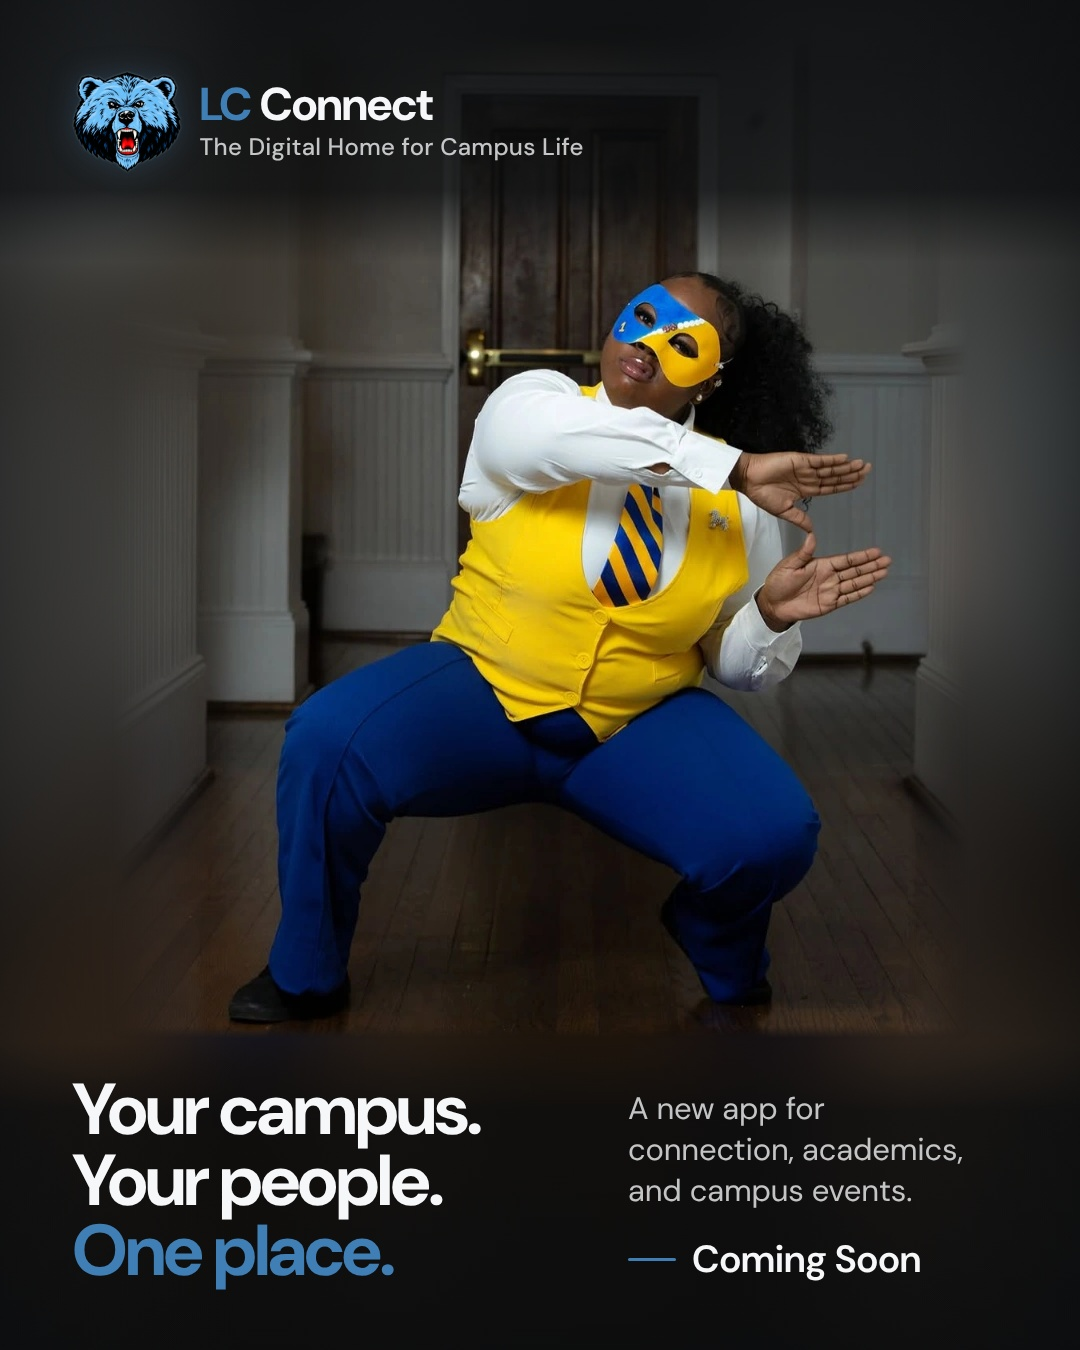
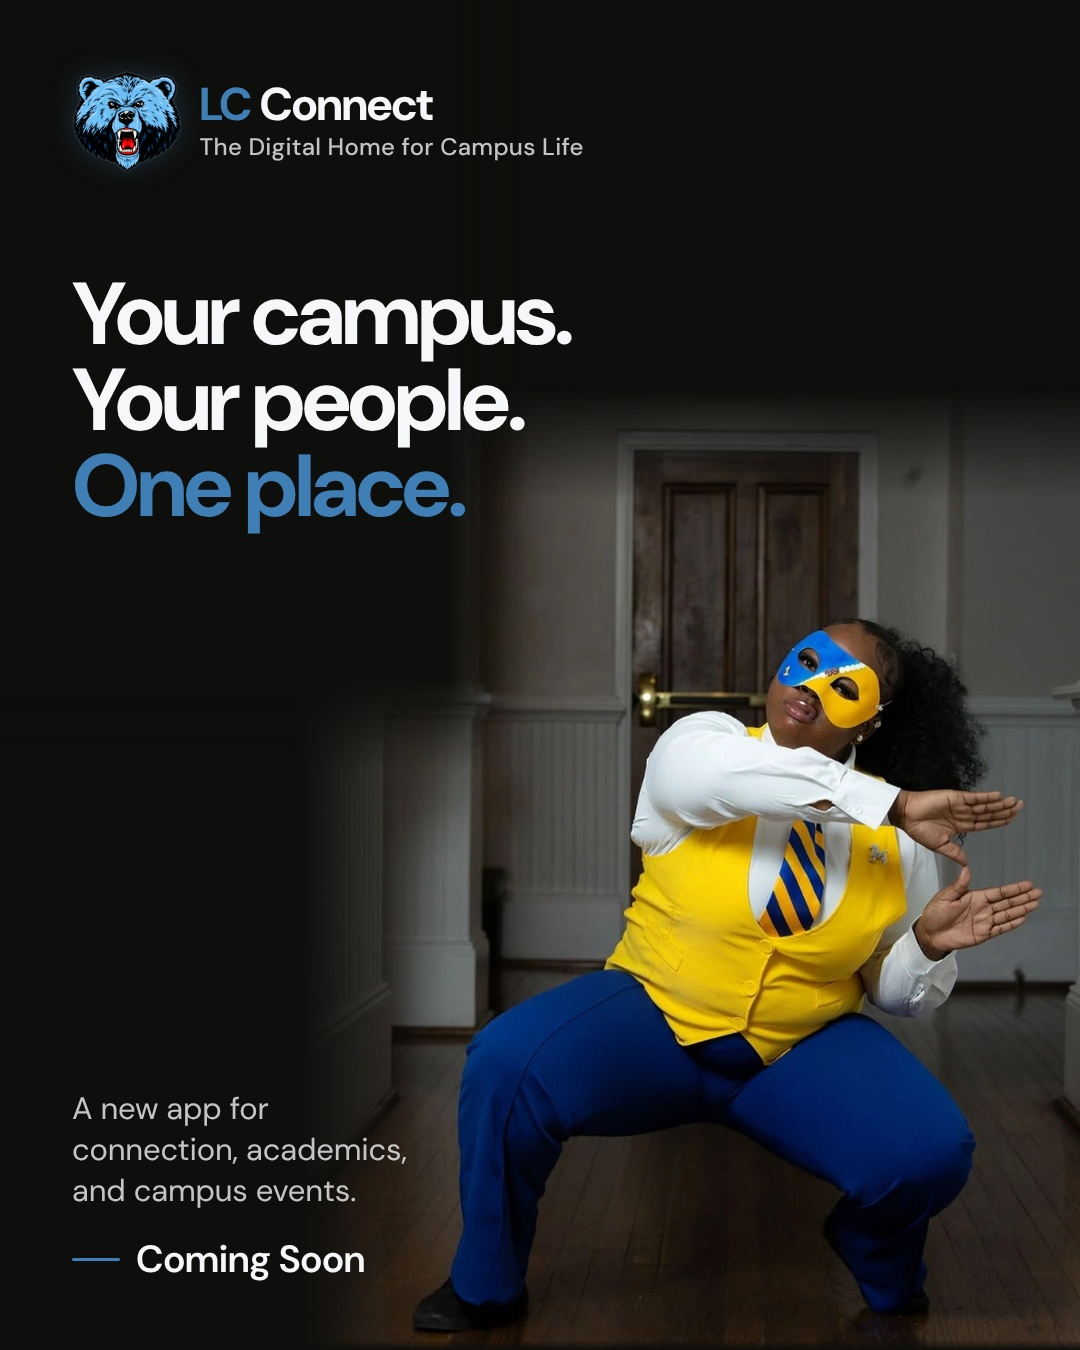
student-12: switch to the cleaner side-column layout (as student-06)
Claude-Session: https://claude.ai/code/session_01Q1CBtzs9MBD2ynYwK4E3t9

diff --git a/campaign/README.md b/campaign/README.md
@@ -166,12 +166,11 @@ Copy, colours, type and the logo treatment are deliberately **not** per-student:
   give the sign-off clean ground. A soft radial `layout.tone` evens out the source's blocky dark
   backdrop behind the type; the subject is untouched.
 - **student-12** (masked student in a low wide stance, same hallway shoot as student-06, from a story
-  screenshot): cropped below the watermark, the repost icon and the EXIT sign, at 1:1. Treated like
-  student-07 — the hallway is continued around her with `photo.extend`, dark overlays top and
-  bottom for the type and a soft side vignette — and `photo.blend` settles a bright wall cabinet at
-  top-left into shadow behind the lockup. Overlays and feathers are kept clear of her: the figure
-  is pixel-identical to the screenshot apart from a 12px soft edge at the soles, which touch the
-  photo's bottom edge.
+  screenshot): uses student-06's clean layout — the photo (cropped below the watermark, repost icon
+  and EXIT sign; 0.95) sits right and dissolves into campaign black on the left, with lockup and
+  headline at the top of the black column and product line + Coming Soon at the bottom-left, ≥45px
+  clear of her leg. `photo.blend` settles a bright wall cabinet into the black behind the headline;
+  the figure itself is untouched.
 - **Coming Soon** is a rule-and-label signature in the type system rather than a badge, so it reads
   as part of the campaign rather than a sticker.
 - **Mobile.** Smallest text is 24px at 1080 wide (~9px on a phone feed); body copy is 31px and the
